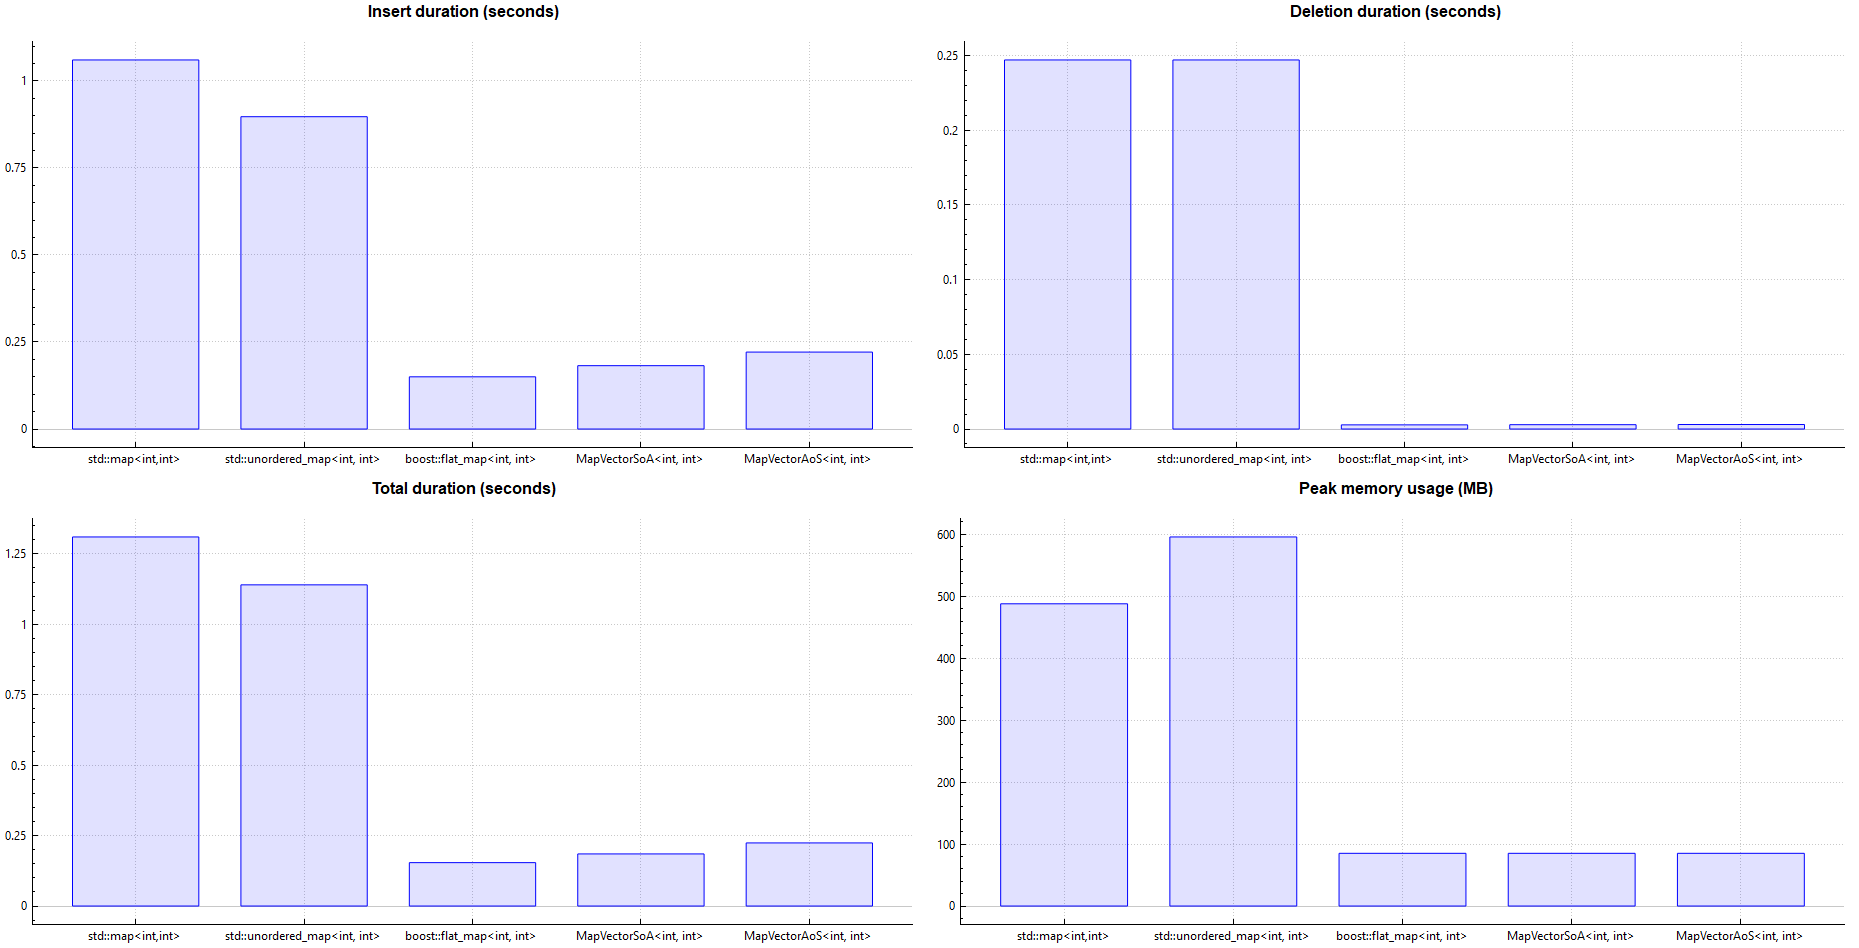
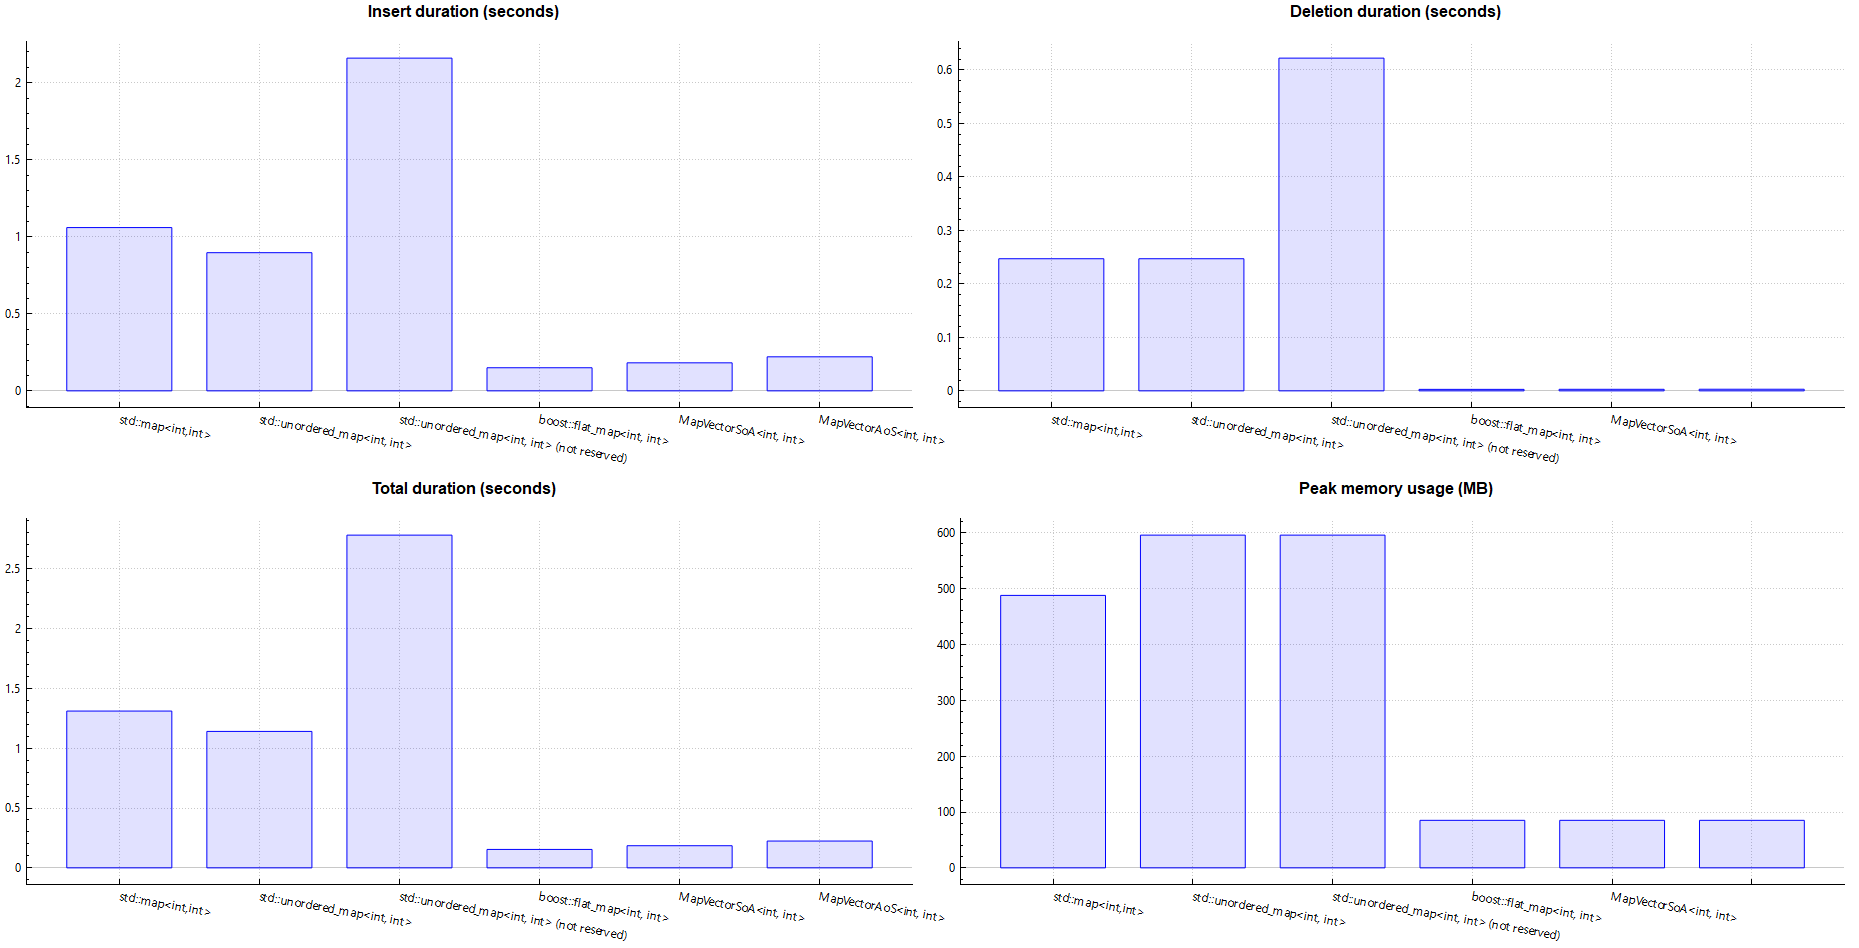
map: example 4: added std::unordered_map without reserve() to comparisons

diff --git a/map/mapSimpleInsert/mapSimpleInsert.cpp b/map/mapSimpleInsert/mapSimpleInsert.cpp
@@ -25,14 +25,14 @@ template <> std::string prettyTypeName<boost::container::flat_map<int, int>>() {
 template <> std::string prettyTypeName<MapVectorSoA<int, int>>()               { return "MapVectorSoA<int, int>"; }
 template <> std::string prettyTypeName<MapVectorAoS<int, int>>()               { return "MapVectorAoS<int, int>"; }
 
-template <class Map_T, class Inserter_T>
+template <class Map_T, bool Reserve_T = true, class Inserter_T>
 void testMap(Inserter_T inserter)
 {
     using Timer = dfg::time::TimerCpu;
     const char cDelim = ';';
     std::cout << dfg::time::localDate_yyyy_mm_dd_hh_mm_ss_C() << cDelim;
     //std::cout << std::chrono::utc_clock().now() << cDelim; // Not available in GCC 11.3.0
-    std::cout << prettyTypeName<Map_T>() << cDelim;
+    std::cout << prettyTypeName<Map_T>() << ((Reserve_T == false) ? " (not reserved)" : "") << cDelim;
     Timer timerTotal;
     {
         Timer timerDestroy;
@@ -41,7 +41,7 @@ void testMap(Inserter_T inserter)
             Timer timerInsert;
             const int nInsertCount = 10000000; // 1e7
             // If map-type has reserve, using it.
-            if constexpr (requires { m.reserve(nInsertCount); })
+            if constexpr (Reserve_T && requires { m.reserve(nInsertCount); })
                 m.reserve(nInsertCount);
             for (int i = 0; i < nInsertCount; ++i)
                 inserter(m, i, i);
@@ -69,6 +69,7 @@ int main()
     std::cout << "Run time;Map type;Insert duration;Random element;Delete duration;Total duration;Peak memory usage;Compiler;C++ standard version;Build type\n";
     testMap<std::map<int, int>>([](auto& m, auto a, auto b) { m.insert(std::pair(a, b)); });
     //testMap<std::unordered_map<int, int>>([](auto& m, auto a, auto b) { m.insert(std::pair(a, b)); });
+    //testMap<std::unordered_map<int, int>, false>([](auto& m, auto a, auto b) { m.insert(std::pair(a, b)); });
     //testMap<boost::container::flat_map<int, int>>([](auto& m, auto a, auto b) { m.insert(std::pair(a, b)); });
     //testMap<MapVectorSoA<int, int>>([](auto& m, auto a, auto b) { m.insert(a, b); });
     //testMap<MapVectorAoS<int, int>>([](auto& m, auto a, auto b) { m.insert(a, b); });

diff --git a/map/mapPerformanceComparison.md b/map/mapPerformanceComparison.md
@@ -2,7 +2,8 @@
 
 ## Update history
 
-* 2024-03: added example 4
+* 2024-03-30: added example 4: 10 million in-order inserts to int->int -map: time and memory usage
+    * 2024-04-09: added std::unordered_map without reserve() to comparisons
 * 2017-04: added example 3
 * 2017-03: added examples 1 and 2
 
@@ -190,7 +191,7 @@ Added 2024-03.
 
 ### 4.1 Overview
 
-This example examines map performance characteristics for case where int->int map is filled with pre-sorted data:
+This example examines map performance characteristics for case where int->int map is filled in-order:
 1. How long it takes to push 10 million int-to-int pairs to map?
 2. How much memory such map uses?
 3. How long it takes to destroy the map?
@@ -217,7 +218,8 @@ Simplified version of the [code](mapSimpleInsert/mapSimpleInsert.cpp):
 | dfglib::MapVectorSoA | 1.21 (182 ms) | 1.04 (2.91 ms) | 1.20 (185 ms) | 1.0 (85.1 MB) |
 | dfglib::MapVectorAoS | 1.47 (221 ms) | 1.08 (3.03 ms) | 1.45 (224 ms) | 1.0 (85.1 MB) | 
 | std::map | 7.07 (1060 ms) | 88 (247 ms) | 8.51 (1310 ms) | 5.73 (488 MB) |
-| std::unordered_map | 5.98 (897 ms) | 88 (247 ms) | 7.40 (1140 ms) | 7.00 (596 MB) |
+| std::unordered_map (reserved) | 5.98 (897 ms) | 88 (247 ms) | 7.40 (1140 ms) | 7.00 (596 MB) |
+| std::unordered_map (not reserved) | 14.4 (2160 ms) | 222 (622 ms) | 18 (2780 ms) | 7.00 (596 MB) |
 
 (*) Boost version 1.81
 
@@ -231,6 +233,7 @@ And the same in chart-form:
 
 * std::map and std::unordered_map were about 7-8 times slower in total:
     * Inserting sequential keys was 6-7 times slower for std::map/unordered_map than for flat maps.
+        * Without reserve in std::unordered_map, it was around 18 times slower than flat_map.
     * Unlike with flat maps, also deleting a big std::map/unordered_map took significant amount of time - more than what it took to add items to a reserved flat map.
 * std::map/unordered_map took around 5-7 times more memory than flat maps.
 
@@ -246,6 +249,9 @@ And worth emphasizing that these figures are just from one particular use scenar
 * Flat map paper R9: https://www.open-std.org/jtc1/sc22/wg21/docs/papers/2022/p0429r9.pdf
     * "the latest paper approved by LEWG" providing design rationales: https://www.open-std.org/jtc1/sc22/wg21/docs/papers/2017/p0429r3.pdf
 * A paper from 2019 discussing issues in flat map proposal at that time: https://www.open-std.org/jtc1/sc22/wg21/docs/papers/2019/p1727r0.pdf
+* Stackoverflow question "boost::flat_map and its performance compared to map and unordered_map" asked in 2014, answers include a lot of benchmarks: https://stackoverflow.com/questions/21166675/boostflat-map-and-its-performance-compared-to-map-and-unordered-map
+* Stackoverflow question "Is there any difference between map and unordered_map in c++ in terms of memory usage?" asked in  2019: https://stackoverflow.com/questions/56438738/is-there-any-difference-between-map-and-unordered-map-in-c-in-terms-of-memory
+* "Should you be using something instead of what you should use instead?" https://scottmeyers.blogspot.com/2015/09/should-you-be-using-something-instead.html
 
 ---
 
